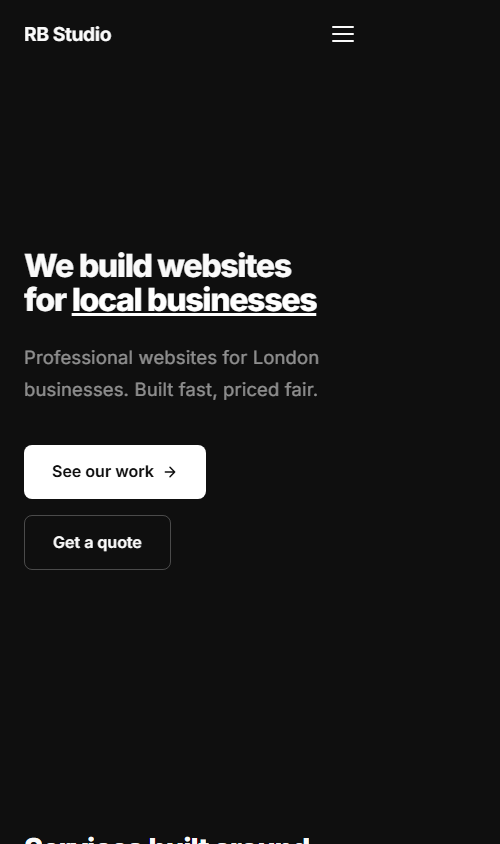
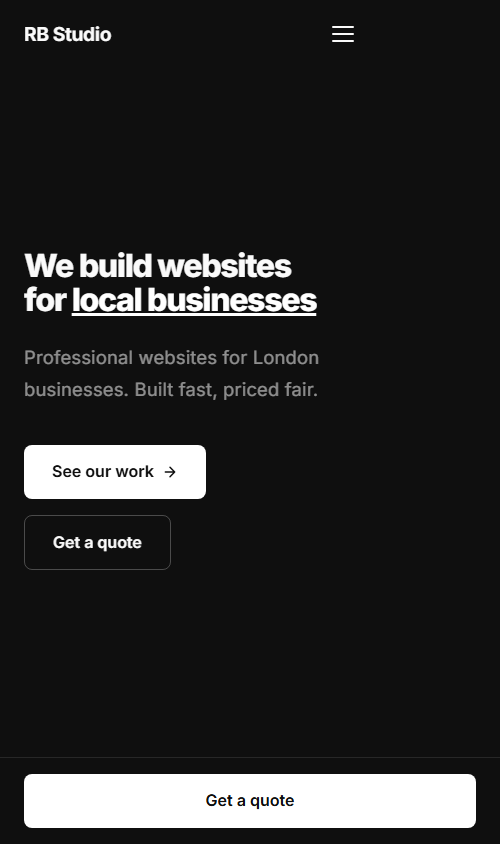
Add sticky mobile enquiry bar
Show a fixed Get a quote bar at the bottom of the screen on mobile. An
IntersectionObserver hides it while the contact section is in view, and
clears the inline style when it leaves so the stylesheet decides
visibility. Refresh renders.

Changed region(s): [[0.03, 0.8934, 0.96, 1.0]]

diff --git a/index.html b/index.html
@@ -981,6 +981,34 @@
       color: var(--accent);
     }
 
+    /* ── MOBILE CTA ── */
+    .mobile-cta {
+      display: none;
+      position: fixed;
+      bottom: 0;
+      left: 0;
+      right: 0;
+      padding: 16px 24px;
+      background: var(--bg);
+      border-top: 1px solid var(--border);
+      z-index: 98;
+    }
+
+    .mobile-cta .btn {
+      width: 100%;
+      justify-content: center;
+    }
+
+    @media (max-width: 640px) {
+      .mobile-cta {
+        display: block;
+      }
+
+      body {
+        padding-bottom: 80px;
+      }
+    }
+
     /* ── RESPONSIVE ── */
     @media (max-width: 900px) {
       .why-grid,
@@ -1471,6 +1499,15 @@
 
     fadeEls.forEach(el => observer.observe(el));
 
+    const mobileCta = document.getElementById('mobileCta');
+    const contactSection = document.getElementById('contact');
+    const ctaObserver = new IntersectionObserver((entries) => {
+      entries.forEach(entry => {
+        mobileCta.style.display = entry.isIntersecting ? 'none' : '';
+      });
+    });
+    ctaObserver.observe(contactSection);
+
     document.querySelectorAll('.preview-load').forEach(btn => {
       btn.addEventListener('click', () => {
         const frame = btn.parentElement.querySelector('iframe');
@@ -1523,5 +1560,6 @@
       });
     }
   </script>
+  <div class="mobile-cta" id="mobileCta"><a href="#contact" class="btn btn-primary">Get a quote</a></div>
 </body>
 </html>
